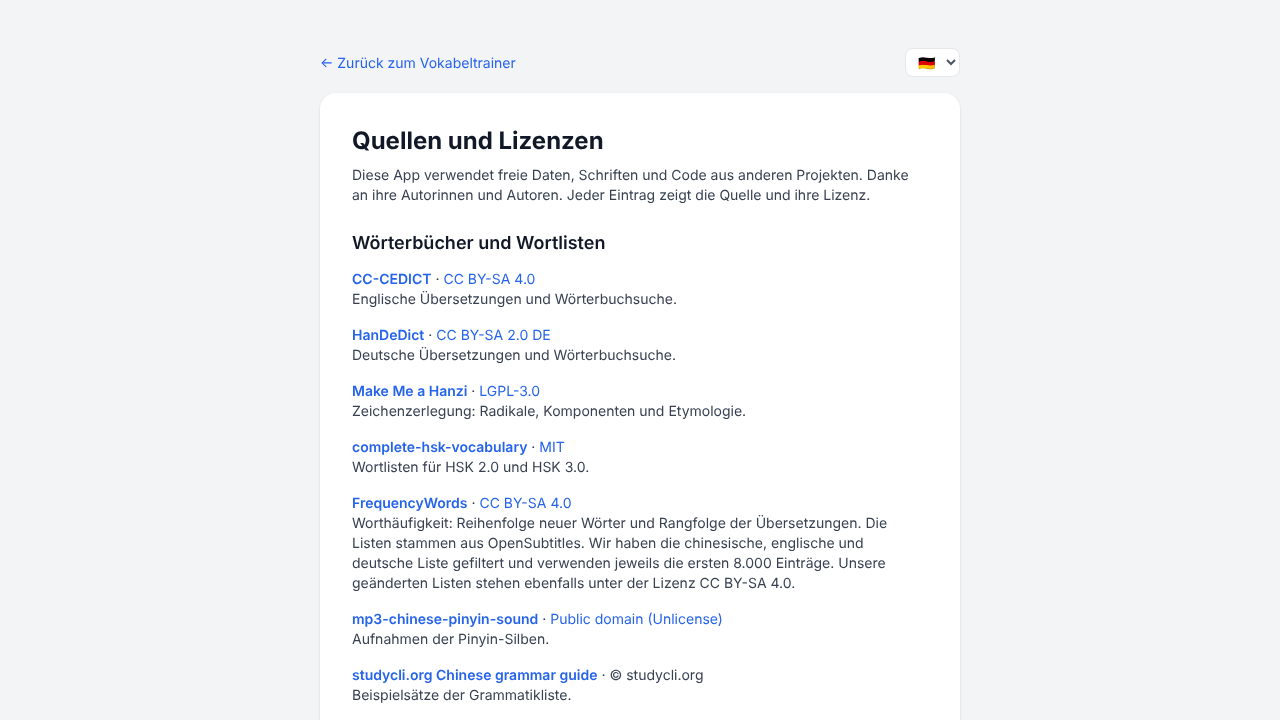
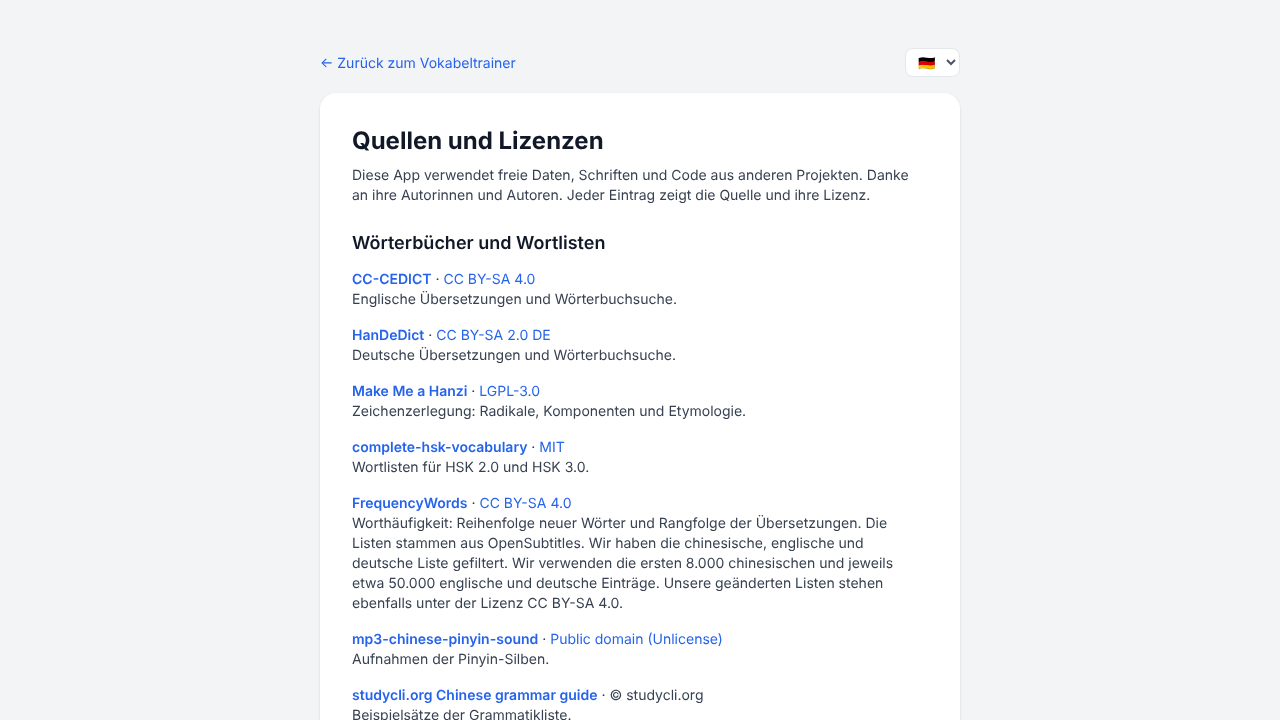
Credits: English and German frequency lists have about 50,000 words
Claude-Session: https://claude.ai/code/session_015dBvsZthyEgeUG78EopNFk

Changed region(s): [[0.2812, 0.7639, 0.6875, 1.0]]

diff --git a/service/frontend/i18n.js b/service/frontend/i18n.js
@@ -534,7 +534,7 @@ const I18N = {
     'credits.useHandedict': 'German translations and dictionary lookup.',
     'credits.useMakemeahanzi': 'Character breakdown: radicals, components and etymology.',
     'credits.useHsk': 'HSK 2.0 and HSK 3.0 word lists.',
-    'credits.useFrequency': 'Word frequency: the order of new words and the ranking of translations. The lists come from OpenSubtitles. We filtered the Chinese, English and German lists and use the first 8,000 entries of each. Our changed lists also have the CC BY-SA 4.0 license.',
+    'credits.useFrequency': 'Word frequency: the order of new words and the ranking of translations. The lists come from OpenSubtitles. We filtered the Chinese, English and German lists. We use the first 8,000 Chinese entries and about 50,000 English and German entries. Our changed lists also have the CC BY-SA 4.0 license.',
     'credits.usePinyin': 'Recordings of the pinyin syllables.',
     'credits.useGrammar': 'Example sentences of the grammar list.',
     'credits.useChartjs': 'Charts on the Stats page.',
@@ -1652,7 +1652,7 @@ const I18N = {
     'credits.useHandedict': '德文释义与词典查询。',
     'credits.useMakemeahanzi': '汉字拆解：部首、部件与字源。',
     'credits.useHsk': 'HSK 2.0 与 HSK 3.0 词表。',
-    'credits.useFrequency': '词频：决定新词的顺序与释义的排序。词表来自 OpenSubtitles。我们对中文、英文和德文词表进行了筛选，并各使用前 8,000 个条目。我们修改后的词表同样采用 CC BY-SA 4.0 许可。',
+    'credits.useFrequency': '词频：决定新词的顺序与释义的排序。词表来自 OpenSubtitles。我们对中文、英文和德文词表进行了筛选，中文使用前 8,000 个条目，英文和德文各使用约 50,000 个条目。我们修改后的词表同样采用 CC BY-SA 4.0 许可。',
     'credits.usePinyin': '拼音音节的录音。',
     'credits.useGrammar': '语法列表中的例句。',
     'credits.useChartjs': '统计页面的图表。',
@@ -2770,7 +2770,7 @@ const I18N = {
     'credits.useHandedict': 'Deutsche Übersetzungen und Wörterbuchsuche.',
     'credits.useMakemeahanzi': 'Zeichenzerlegung: Radikale, Komponenten und Etymologie.',
     'credits.useHsk': 'Wortlisten für HSK 2.0 und HSK 3.0.',
-    'credits.useFrequency': 'Worthäufigkeit: Reihenfolge neuer Wörter und Rangfolge der Übersetzungen. Die Listen stammen aus OpenSubtitles. Wir haben die chinesische, englische und deutsche Liste gefiltert und verwenden jeweils die ersten 8.000 Einträge. Unsere geänderten Listen stehen ebenfalls unter der Lizenz CC BY-SA 4.0.',
+    'credits.useFrequency': 'Worthäufigkeit: Reihenfolge neuer Wörter und Rangfolge der Übersetzungen. Die Listen stammen aus OpenSubtitles. Wir haben die chinesische, englische und deutsche Liste gefiltert. Wir verwenden die ersten 8.000 chinesischen und jeweils etwa 50.000 englische und deutsche Einträge. Unsere geänderten Listen stehen ebenfalls unter der Lizenz CC BY-SA 4.0.',
     'credits.usePinyin': 'Aufnahmen der Pinyin-Silben.',
     'credits.useGrammar': 'Beispielsätze der Grammatikliste.',
     'credits.useChartjs': 'Diagramme auf der Statistikseite.',

diff --git a/e2e/credits.spec.js b/e2e/credits.spec.js
@@ -26,6 +26,8 @@ test.describe('Credits and licenses (signed out)', () => {
     await expect(cedict).toContainText('CC BY-SA 4.0');
     await expect(page.locator('[data-credit="handedict"]')).toContainText('CC BY-SA 2.0 DE');
     await expect(page.locator('[data-credit="frequencywords"]')).toContainText('CC BY-SA 4.0');
+    // The English and German lists have about 50,000 words (issue #658).
+    await expect(page.locator('[data-credit="frequencywords"]')).toContainText('about 50,000 English and German entries');
     await expect(page.locator('[data-credit="makemeahanzi"]')).toContainText('LGPL-3.0');
     await expect(page.locator('[data-credit="chartjs"]')).toContainText('MIT');
     await expect(page.locator('[data-credit="noto-sans-sc"]')).toContainText('OFL-1.1');
@@ -45,6 +47,7 @@ test.describe('Credits and licenses (signed out)', () => {
     await page.goto('/credits');
     await page.locator('#lang-select').selectOption('de');
     await expect(page.locator('#credits-title')).toHaveText('Quellen und Lizenzen');
+    await expect(page.locator('[data-credit="frequencywords"]')).toContainText('etwa 50.000 englische und deutsche Einträge');
     await captureForPR(page, 'credits-page-german');
 
     await page.locator('#lang-select').selectOption('zh');

diff --git a/service/frontend/credits.html b/service/frontend/credits.html
@@ -46,7 +46,7 @@
         <li data-credit="frequencywords">
           <a href="https://github.com/hermitdave/FrequencyWords" class="font-semibold text-blue-600 hover:underline">FrequencyWords</a>
           · <a href="/licenses/cc-by-sa-4.0.txt" class="license-link text-blue-600 hover:underline">CC BY-SA 4.0</a>
-          <p data-i18n="credits.useFrequency">Word frequency: the order of new words and the ranking of translations. The lists come from OpenSubtitles. We filtered the Chinese, English and German lists and use the first 8,000 entries of each. Our changed lists also have the CC BY-SA 4.0 license.</p>
+          <p data-i18n="credits.useFrequency">Word frequency: the order of new words and the ranking of translations. The lists come from OpenSubtitles. We filtered the Chinese, English and German lists. We use the first 8,000 Chinese entries and about 50,000 English and German entries. Our changed lists also have the CC BY-SA 4.0 license.</p>
         </li>
         <li data-credit="pinyin-sounds">
           <a href="https://github.com/davinfifield/mp3-chinese-pinyin-sound" class="font-semibold text-blue-600 hover:underline">mp3-chinese-pinyin-sound</a>
